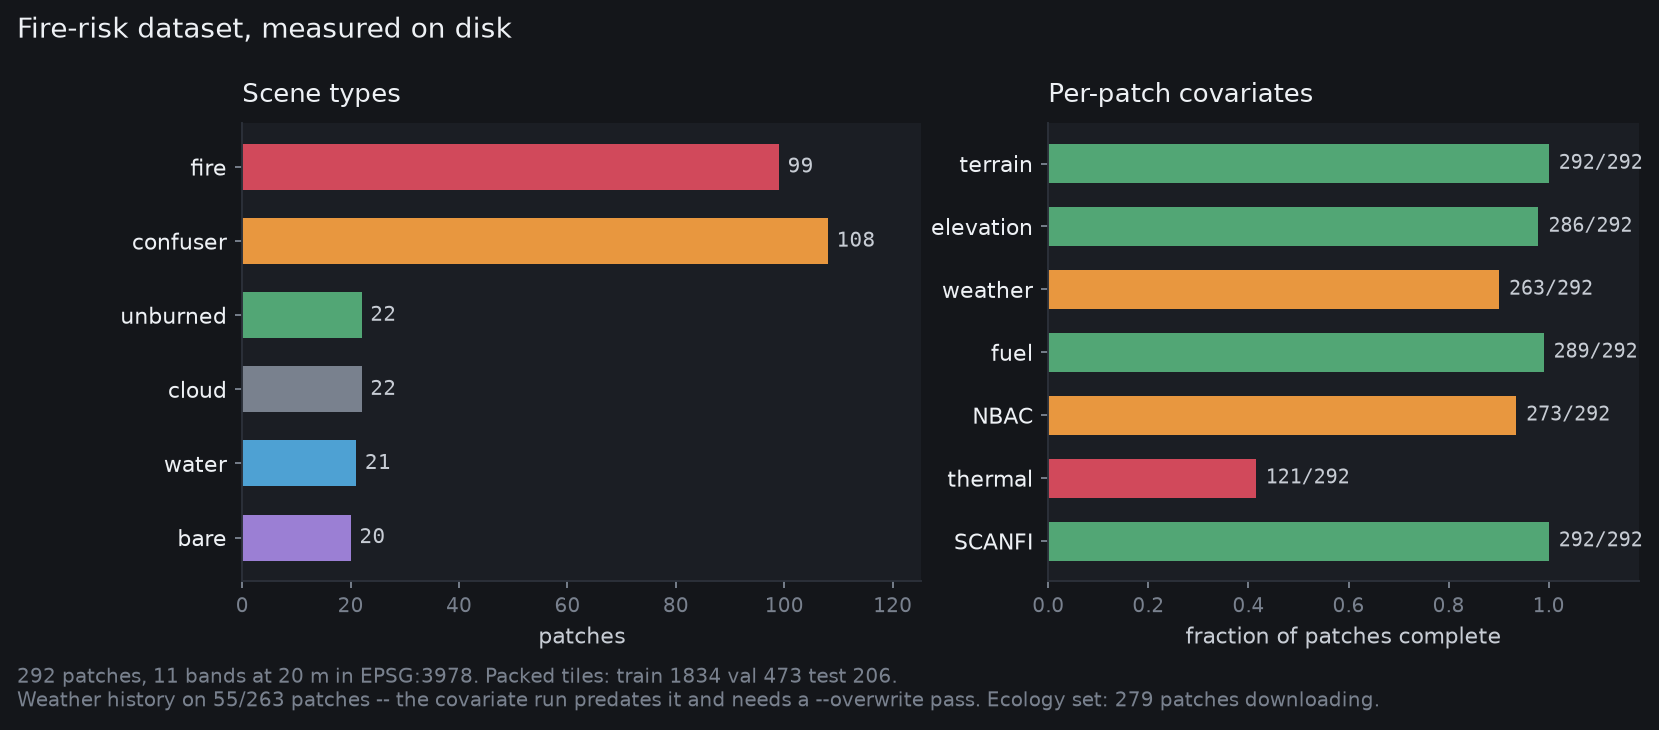
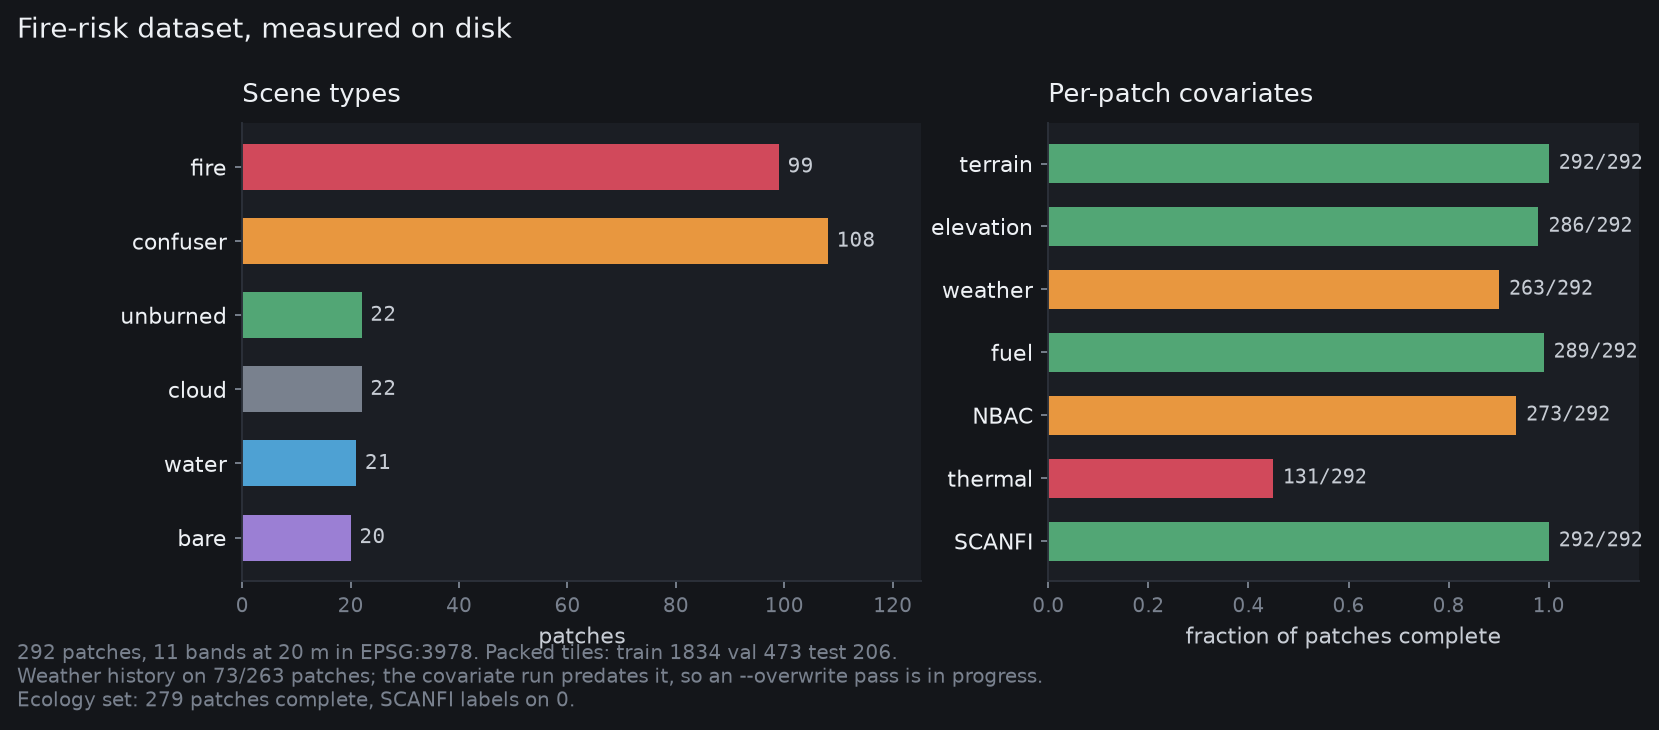
Figures regenerated against the Mantis decision and the live data state
The ranking-arms figure was still framed as "two band-ranking arms", which
described the ecology-versus-fire label split and said nothing about the
instrument. Now that the decision is three Mantis pushbroom modes, the useful
question is which DATA SOURCE answers which part of it, so the figure is
rebuilt around that: Sentinel-2 for the six VNIR bands and the MS-vs-HS reach
question, WorldView-3 for whether SWIR adds over VNIR with both halves
co-registered, hyperspectral for where the four SWIR centres go and what 96
bands buy.

Below that, the two label sources and what neither covers -- SCANFI gives T4
and structure densely, NBAC gives a sparse flammability outcome, and neither
labels T1 live foliar moisture or T2 curing. And below that, the one gap no
data source closes: T2 needs lignin, the only in-range route is NDLI at 1680
plus 1754 nm, 1754 sits past both the InGaAs cutoff and the envelope, and the
ecology set has no grassland to test it against even if the band existed.

The inventory figure reads live off disk and now reports the ecology set
honestly -- 279 patches complete with a SCANFI label count, rather than
"downloading", which it no longer is.

All sixteen figures regenerated.

Changed region(s): [[0.0, 0.874, 0.83, 0.9644], [0.7378, 0.6329, 0.83, 0.6932]]

diff --git a/scripts/make_status_figures.py b/scripts/make_status_figures.py
@@ -148,6 +148,8 @@ def survey(repo: Path) -> dict:
         "splits": splits,
         "bands": bands,
         "n_ecology": len(list(eco.glob("*_bands.tif"))) if eco.exists() else 0,
+        "n_ecology_scanfi": (len(list(eco.glob("*_scanfi.npy")))
+                             if eco.exists() else 0),
         "fwi_total": len(fwis),
         "fwi_with_history": with_hist,
         "h5_error": h5_error,
@@ -205,8 +207,10 @@ def fig_inventory(st: dict):
         f"{st['n_patches']} patches, {len(st['bands'])} bands at 20 m in "
         f"EPSG:3978. Packed tiles: {packed or 'not packed'}.",
         f"Weather history on {st['fwi_with_history']}/{st['fwi_total']} "
-        f"patches -- the covariate run predates it and needs a --overwrite "
-        f"pass. Ecology set: {st['n_ecology']} patches downloading.",
+        f"patches; the covariate run predates it, so an --overwrite pass is "
+        f"in progress.",
+        f"Ecology set: {st['n_ecology']} patches complete, SCANFI labels on "
+        f"{st['n_ecology_scanfi']}.",
     ]), color=MUTED, fontsize=8.3, ha="left")
     return _save(fig, "status_inventory.png")
 
@@ -291,57 +295,76 @@ def fig_staleness(st: dict):
 
 
 def fig_arms():
+    """What each data source can decide, now that the instrument is known."""
     plt = _plt()
-    fig, ax = plt.subplots(figsize=(9.6, 4.3), facecolor=FIG_BG)
+    fig, ax = plt.subplots(figsize=(11.0, 5.2), facecolor=FIG_BG)
     ax.set_facecolor(FIG_BG)
-    ax.set_xlim(0, 10)
-    ax.set_ylim(0, 5.6)
+    ax.set_xlim(0, 12)
+    ax.set_ylim(0, 7.2)
     ax.axis("off")
-    fig.suptitle("Two band-ranking arms, and the gap between them",
-                 color=INK_BRIGHT, fontsize=12, x=0.0, ha="left", y=0.99)
+    fig.suptitle("Which data source answers which part of the Mantis decision",
+                 color=INK_BRIGHT, fontsize=12.5, x=0.0, ha="left", y=1.0)
 
-    def box(x, y, w, h, title, lines, col):
-        from matplotlib.patches import FancyBboxPatch
+    from matplotlib.patches import FancyBboxPatch
+
+    def box(x, y, w, h, title, sub, lines, col):
         ax.add_patch(FancyBboxPatch(
             (x, y), w, h, boxstyle="round,pad=0.12", linewidth=1.5,
             edgecolor=col, facecolor=AX_BG, zorder=2))
-        ax.text(x + 0.18, y + h - 0.3, title, color=col, fontsize=10,
+        ax.text(x + 0.2, y + h - 0.32, title, color=col, fontsize=10,
                 weight="bold", zorder=3)
+        ax.text(x + 0.2, y + h - 0.66, sub, color=MUTED, fontsize=8.2,
+                zorder=3, style="italic")
         for i, ln in enumerate(lines):
-            ax.text(x + 0.18, y + h - 0.68 - i * 0.32, ln, color=INK,
-                    fontsize=8.6, zorder=3)
+            ax.text(x + 0.2, y + h - 1.04 - i * 0.33, ln, color=INK,
+                    fontsize=8.5, zorder=3)
 
-    box(0.1, 2.9, 4.6, 2.4, "ECOLOGY ARM  (primary)", [
-        "SCANFI distillation, ~300 patches",
-        "dense: every pixel labelled",
-        "crown closure, height, biomass,",
-        "species, land cover  ->  T4",
-        "pinned to 2020: one season only",
+    box(0.1, 3.75, 3.5, 3.1, "SENTINEL-2", "292 fire + 279 ecology, packed", [
+        "10 bands in 400-1000 nm",
+        "1 band in 1000-1750 (B11)",
+        "",
+        "ANSWERS",
+        "  which 6 VNIR bands",
+        "  MS vs HS reach (B1, B9)",
     ], S1)
 
-    box(5.3, 2.9, 4.6, 2.4, "FIRE ARM  (relevance check)", [
-        "NBAC outcome, 292 patches",
-        "sparse: one label per patch",
-        "flammability -> moisture-adjacent",
-        "confounded by ignition arrival",
-        "spans 2019-2023: seasonal range",
-    ], CRIT)
-
-    box(0.1, 0.25, 9.8, 2.25, "NEITHER ARM MEASURES", [
-        "T1 live foliar moisture (LFMC)  and  T2 curing / NPV fraction  have no labels anywhere in this data.",
-        "They need radiative transfer simulation (Phases 1-2, not built) or field measurement (Phase 6).",
+    box(4.2, 3.75, 3.5, 3.1, "WORLDVIEW-3", "commercial, coverage TBC", [
+        "8 VNIR  400-1040 nm",
+        "4 SWIR  1209-1730 nm",
+        "one platform, co-registered",
         "",
-        "This matters most for B11. 1610 nm is in the design for canopy water, so a structure-only ranking",
-        "scores it on its secondary role -- and B11 is the band the whole SWIR chain exists to carry.",
+        "ANSWERS",
+        "  does SWIR add over VNIR",
     ], S2)
 
-    from matplotlib.patches import FancyArrowPatch
-    ax.add_patch(FancyArrowPatch((4.78, 4.1), (5.22, 4.1), mutation_scale=13,
-                                 color=MUTED, lw=1.3, arrowstyle="->"))
-    # ABOVE the boxes. Centred in the 0.6-wide gap between them it
-    # overflowed onto the fire panel and sat on its first two lines.
-    ax.text(5.0, 5.45, "rank here, then check there", color=MUTED,
-            fontsize=8.2, ha="center", style="italic")
+    box(8.3, 3.75, 3.6, 3.1, "HYPERSPECTRAL",
+        "AVIRIS-NG / EnMAP / PRISMA", [
+        "contiguous 400-2500 nm",
+        "5-12 nm sampling",
+        "",
+        "ANSWERS",
+        "  where the 4 SWIR centres go",
+        "  what 96 HS bands buy",
+    ], S3)
+
+    box(0.1, 1.75, 11.8, 1.8, "TWO LABEL SOURCES, AND WHAT NEITHER COVERS", "", [
+        "ECOLOGY (SCANFI, dense per pixel): T4 fuel type and percent conifer, "
+        "plus crown closure, height, biomass, species.",
+        "FIRE (NBAC, sparse, one label per patch): flammability, which is "
+        "moisture-adjacent but confounded by ignition arrival.",
+        "NEITHER labels T1 live foliar moisture or T2 curing / NPV. Those need "
+        "radiative transfer (Phases 1-2, not built) or field measurement.",
+    ], S2)
+
+    box(0.1, 0.1, 11.8, 1.55, "AND ONE THING NO DATA SOURCE FIXES", "", [
+        "T2 needs lignin. With SWIR2 out of range, the only in-range route is "
+        "NDLI (1680 + 1754 nm) -- and 1754 sits past both the 1700 InGaAs "
+        "cutoff and the 1750 envelope.",
+        "The ecology set is eight treed and wetland classes with no grassland "
+        "at all, so there is no curing label to test it against either. See "
+        "Q23.",
+    ], CRIT)
+
     return _save(fig, "status_ranking_arms.png")
 
 
